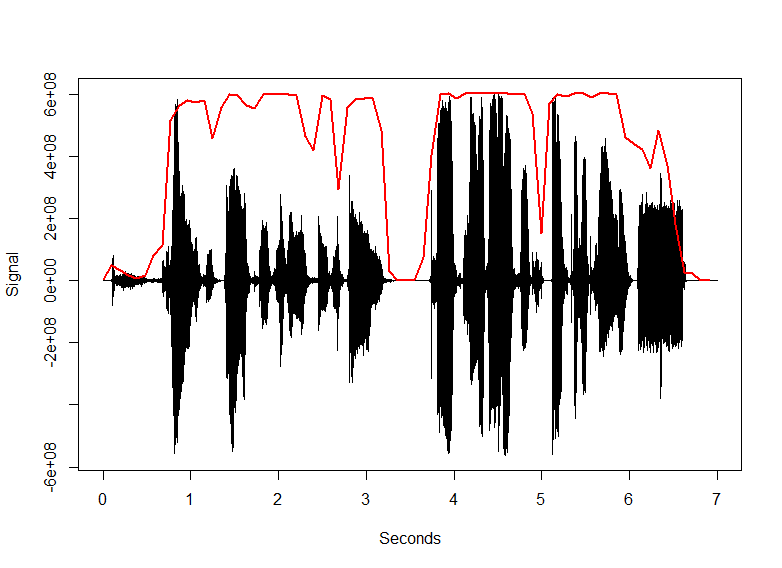
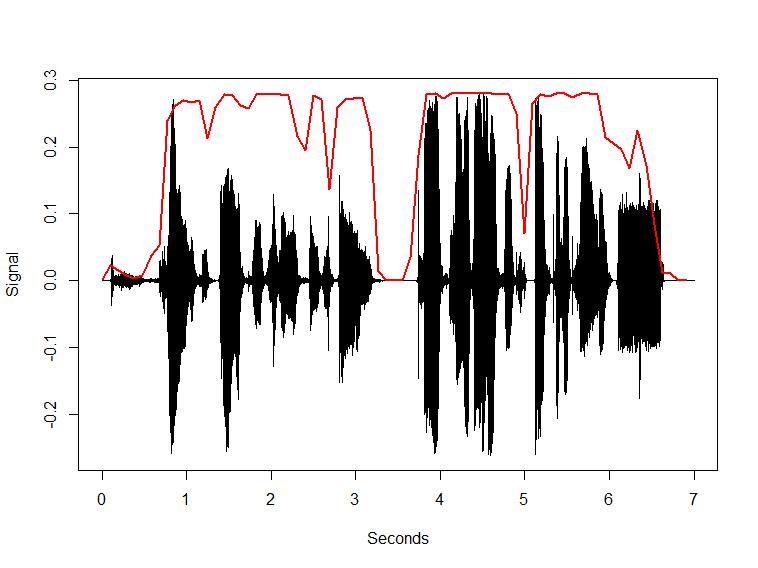
docs

diff --git a/README.md b/README.md
@@ -46,8 +46,8 @@ vad$vad_segments
 Example of a simple plot of these audio and voice segments
 
 ```{r}
-library(av)
-x <- read_audio_bin(file)
+library(wav)
+x <- read_wav(file)
 plot(seq_along(x) / 16000, x, type = "l", xlab = "Seconds", ylab = "Signal")
 lines(vad$vad$millisecond / 1000, vad$vad$probability *  max(x), type = "l", col = "red", lwd = 2)
 ```
